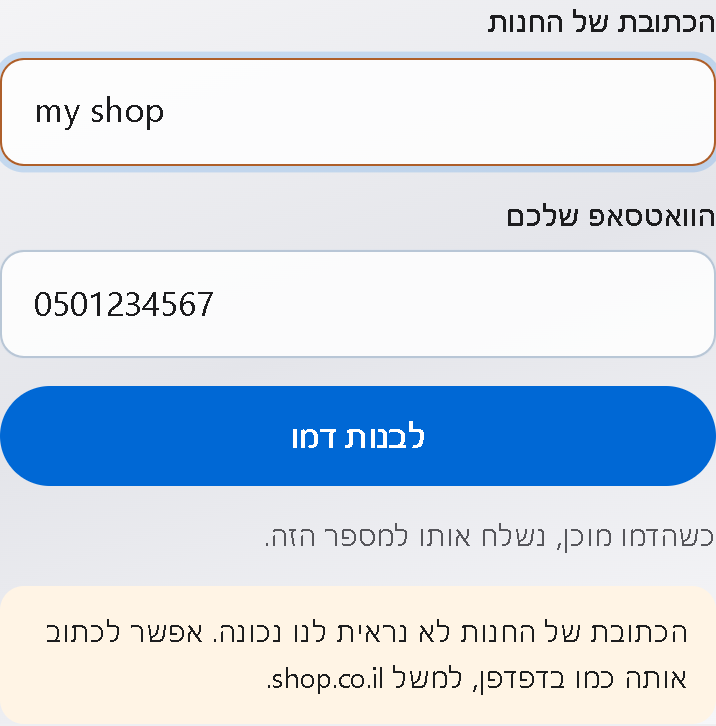
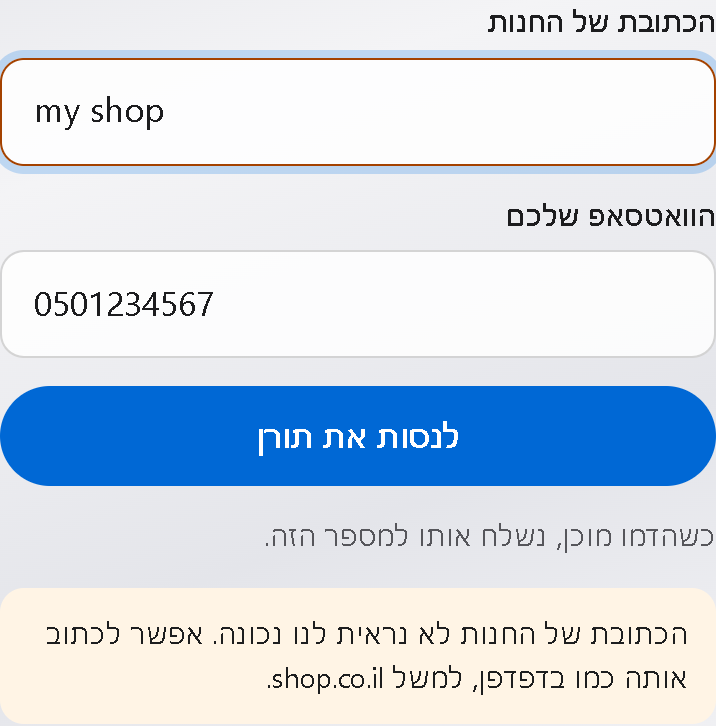
Teder's page in Toran's shape: one slideshow under TikTok and Instagram tabs, the approval screen, what it does alone and what is left for you, and a demo form; the lead service takes a Teder demo like Toran's, one per number
Claude-Session: https://claude.ai/code/session_013ytyKksuwzF2xehLBuYDbT

diff --git a/src/style.css b/src/style.css
@@ -419,7 +419,7 @@ input:focus, textarea:focus { outline: none; border-color: var(--accent-fill); b
 .hero .ch-box { grid-area: box; min-width: 0; }
 @media (min-width: 1000px) {
   .hero { padding-block: 44px 40px; }
-  .hero > .wrap { grid-template-columns: minmax(0, 1fr) minmax(0, 1.05fr); grid-template-areas: 'head box' 'text box'; gap: 24px 56px; align-items: start; }
+  .hero > .wrap { grid-template-columns: minmax(0, 1fr) minmax(0, 1.05fr); grid-template-rows: auto 1fr; grid-template-areas: 'head box' 'text box'; gap: 24px 56px; align-items: start; }
   .hero-text { align-self: start; }
 }
 
@@ -501,8 +501,37 @@ input:focus, textarea:focus { outline: none; border-color: var(--accent-fill); b
 .logo.instagram { color: #ff0069; }
 .logo.messenger { color: #00b2ff; }
 .logo.email { color: var(--ink-3); }
+.logo.tiktok { color: var(--ink); }
 .chat-top small .logo, .mail-subj small .logo { width: 13px; height: 13px; margin-inline-end: 4px; vertical-align: -2px; }
 .ch-tabs .logo { width: 18px; height: 18px; }
+
+/* Teder's platforms: the same slideshow in TikTok's tall frame and in an Instagram post. */
+.tt { position: relative; width: 100%; max-width: 300px; margin: 0 auto; overflow: hidden; border-radius: 22px; background: #000; aspect-ratio: 9 / 16; }
+.tt img { display: block; width: 100%; height: 100%; object-fit: cover; }
+.tt-over { position: absolute; inset: auto 0 0; padding: 48px 14px 14px; background: linear-gradient(transparent, rgba(0, 0, 0, 0.62)); color: #fff; font-size: 13px; line-height: 1.4; }
+.tt-over b { display: block; margin-bottom: 2px; font-size: 14px; }
+.tt-rail { position: absolute; right: 10px; bottom: 92px; display: grid; gap: 16px; }
+.tt-rail svg, .igp-act svg { width: 26px; height: 26px; fill: none; stroke: currentColor; stroke-width: 1.8; stroke-linejoin: round; stroke-linecap: round; }
+.tt-rail svg { color: #fff; filter: drop-shadow(0 1px 2px rgba(0, 0, 0, 0.5)); }
+.igp { width: 100%; max-width: 380px; margin: 0 auto; overflow: hidden; border-radius: 14px; background: var(--sheet); color: var(--ink); }
+.igp .chat-top .ava { box-shadow: 0 0 0 2px var(--sheet), 0 0 0 4px #ff0069; }
+.igp img { display: block; width: 100%; height: auto; aspect-ratio: 4 / 5; object-fit: cover; }
+.igp-act { position: relative; display: flex; align-items: center; gap: 14px; padding: 10px 12px 4px; }
+.igp-act svg { width: 24px; height: 24px; }
+.igp-dots { position: absolute; left: 50%; display: flex; gap: 4px; transform: translateX(-50%); }
+.igp-dots i { width: 6px; height: 6px; border-radius: 50%; background: var(--line-2); }
+.igp-dots i.on { background: #3797f0; }
+.igp figcaption { padding: 4px 12px 14px; font-size: 14px; line-height: 1.45; }
+
+/* Teder's approval screen: each slideshow with its cover, where it goes out, and what happened to it. */
+.approvals li { grid-template-columns: 44px minmax(0, 1fr) auto; grid-template-areas: 'th text st' 'th where ok'; align-items: center; }
+.ap-thumb { grid-area: th; }
+.ap-thumb img { display: block; width: 44px; height: 55px; border-radius: 8px; object-fit: cover; }
+.approvals .ib-text { grid-area: text; display: -webkit-box; white-space: normal; -webkit-line-clamp: 2; -webkit-box-orient: vertical; line-height: 1.35; }
+.ap-where { grid-area: where; display: flex; gap: 6px; }
+.ap-where .logo { width: 16px; height: 16px; }
+.approvals .ui-s { grid-area: st; }
+.ap-ok { grid-area: ok; justify-self: end; padding: 3px 12px; border-radius: 999px; background: var(--teder); color: #fff; font-size: 12px; font-weight: 700; }
 
 /* The price on Toran's page, short, and the one form, at the end. */
 .terms-line { max-width: 62ch; margin-top: 20px; }
@@ -526,10 +555,12 @@ input:focus, textarea:focus { outline: none; border-color: var(--accent-fill); b
 .hl .pn { text-decoration: none; }
 :is(h1, .lede) .hl { --hl: var(--of); padding-inline: 0.08em; background: linear-gradient(transparent 58%, color-mix(in srgb, var(--hl) 30%, transparent) 58%, color-mix(in srgb, var(--hl) 30%, transparent) 92%, transparent 92%); -webkit-box-decoration-break: clone; box-decoration-break: clone; }
 .hero :is(h1, .lede) .hl { --hl: var(--toran); }
+.teder-hero :is(h1, .lede) .hl { --hl: var(--teder); }
 .teder-field h1 .hl { --hl: #fff; }
 @media (prefers-color-scheme: dark) {
   .co-hero h1 .hl { background: linear-gradient(transparent 58%, rgb(110 135 255 / 0.42) 58%, rgb(110 135 255 / 0.42) 92%, transparent 92%); }
   .hero :is(h1, .lede) .hl { background: linear-gradient(transparent 58%, rgb(60 200 140 / 0.36) 58%, rgb(60 200 140 / 0.36) 92%, transparent 92%); }
+  .teder-hero :is(h1, .lede) .hl { background: linear-gradient(transparent 58%, rgb(170 140 255 / 0.4) 58%, rgb(170 140 255 / 0.4) 92%, transparent 92%); }
 }
 .co-hero .lede { margin-top: 18px; max-width: 40ch; }
 /* The mark's dots alone, large, faint and turned 30 degrees behind the headline, pushed toward the left edge. The doors' glass blurs them. */

diff --git a/src/form.js b/src/form.js
@@ -1,7 +1,7 @@
 // The site's one script beyond the header: it sends a form without leaving the page. Without it the forms still
 // work, as plain posts that land on /thanks or /try-again. Every word it shows is in the page, in a <template>, so
 // the copy lint reads it like the rest.
-//   form[data-form="demo"]: data-wa is our WhatsApp number (empty in a draft), data-wa-text the message
+//   form[data-form="demo" | "teder"]: data-wa is our WhatsApp number (empty in a draft), data-wa-text the message
 //   it starts with, where {store} is the address they typed.
 (function () {
   var forms = document.querySelectorAll('form[data-form]');
